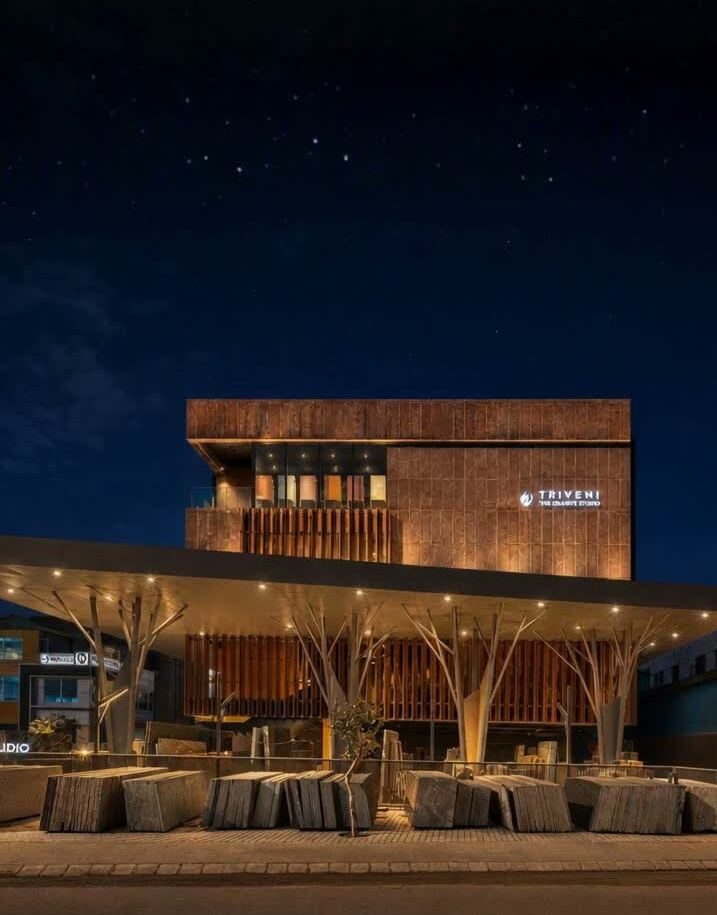
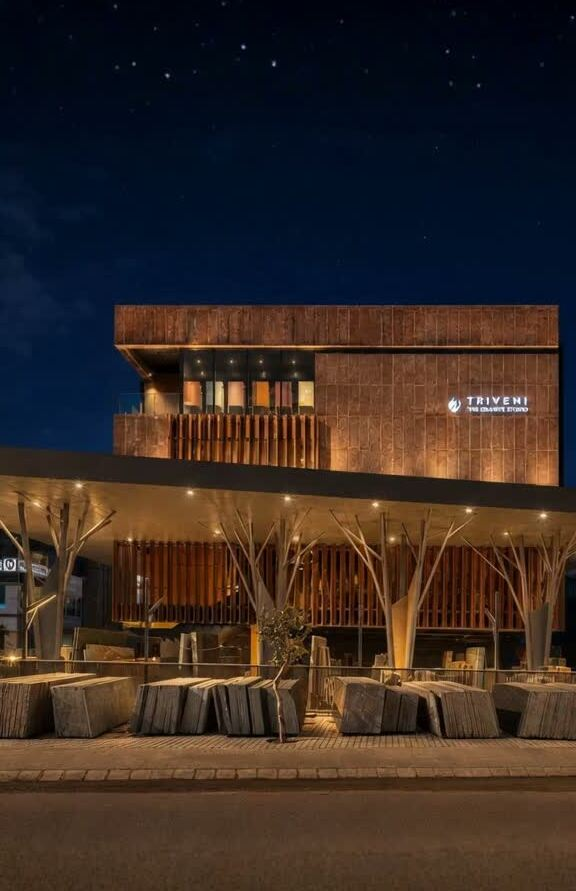
hero mobile

diff --git a/src/sections/heroPageSections/HeroSection.jsx b/src/sections/heroPageSections/HeroSection.jsx
@@ -17,7 +17,7 @@ export default function HeroSection() {
   }, []);
 
   return (
-    <section id="hero" className="relative w-full h-[100vh] overflow-hidden bg-[#0a0a0a]">
+    <section id="hero" className="relative w-full h-[90vh] overflow-hidden bg-[#0a0a0a]">
       <AnimatePresence mode="wait">
         {isMobile ? (
           // --- MOBILE CREATIVE VIEW ---
@@ -26,15 +26,16 @@ export default function HeroSection() {
             initial={{ opacity: 0 }}
             animate={{ opacity: 1 }}
             exit={{ opacity: 0 }}
-            className="relative w-full h-full flex flex-col justify-end p-6 md:p-12 text-white"
+            // Changed from justify-end to justify-start + pt-24 to float it elegantly in the dark sky
+            className="relative w-full h-full flex flex-col justify-start pt-24 px-6 text-white"
           >
             {/* Background Image Cinematic Scale & Ken Burns Effect */}
             <motion.div 
-              initial={{ scale: 1.2, filter: "brightness(0.3) blur(4px)" }}
+              initial={{ scale: 1.15, filter: "brightness(0.3) blur(3px)" }}
               animate={{ 
                 scale: 1, 
-                filter: "brightness(1.2) blur(0px)",
-                transition: { duration: 1.8, ease: [0.16, 1, 0.3, 1] }
+                filter: "brightness(1.1) blur(0px)",
+                transition: { duration: 2, ease: [0.16, 1, 0.3, 1] }
               }}
               className="absolute inset-0 z-0"
             >
@@ -46,60 +47,66 @@ export default function HeroSection() {
               />
             </motion.div>
 
-            {/* Cinematic Gradient Overlay */}
-            <div className="absolute inset-0 bg-gradient-to-t from-black via-black/40 to-transparent z-10" />
+            {/* Subtle top-down gradient protection for optimal contrast against the sky */}
+            <div className="absolute inset-0 bg-gradient-to-b from-black/60 via-transparent to-black/30 z-10 pointer-events-none" />
 
-            {/* Typography Content Overlay */}
-            <div className="relative z-20 mb-8 max-w-md space-y-4">
+            {/* Typography Content Overlay - Floating in Sky */}
+            <div className="relative z-20 max-w-xs space-y-4">
+              {/* Minimalist Subtitle / Welcome Line */}
               <motion.div
-                initial={{ opacity: 0, y: 30 }}
+                initial={{ opacity: 0, y: -10 }}
                 animate={isLoaded ? { opacity: 1, y: 0 } : {}}
                 transition={{ delay: 0.4, duration: 0.8, ease: "easeOut" }}
+                className="flex items-center gap-2"
               >
-                <span className="text-xs uppercase tracking-[0.3em] text-gray-400 font-medium">
-                  Welcome to Triveni
+                <span className="text-[10px] uppercase tracking-[0.4em] text-amber-500 font-semibold">
+                  Triveni Studio
+                </span>
+                <span className="w-4 h-[1px] bg-amber-500/40" />
+                <span className="text-[10px] uppercase tracking-[0.2em] text-neutral-400">
+                  Est. 1993
                 </span>
               </motion.div>
 
+              {/* High-End Architectural Heading */}
               <motion.h1 
-                initial={{ opacity: 0, y: 40 }}
+                initial={{ opacity: 0, y: 15 }}
                 animate={isLoaded ? { opacity: 1, y: 0 } : {}}
-                transition={{ delay: 0.6, duration: 0.8, ease: "easeOut" }}
-                className="text-4xl font-light tracking-tight leading-none"
+                transition={{ delay: 0.6, duration: 1, ease: [0.16, 1, 0.3, 1] }}
+                className="text-3xl font-extralight tracking-wide leading-[1.2]"
               >
                 Crafting <br />
-                <span className="font-semibold text-amber-500">Architectural</span> <br />
-                Masterpieces.
+                <span className="font-light text-neutral-100">Architectural</span> <br />
+                <span className="italic font-serif text-neutral-300">Masterpieces</span>
               </motion.h1>
 
+              {/* Minimal Line Divider */}
               <motion.div
                 initial={{ width: 0 }}
-                animate={isLoaded ? { width: "60px" } : {}}
+                animate={isLoaded ? { width: "40px" } : {}}
                 transition={{ delay: 0.9, duration: 0.6 }}
-                className="h-[2px] bg-amber-500"
+                className="h-[1px] bg-amber-500/80"
               />
 
+              {/* Short, elegant paragraph layout */}
               <motion.p
                 initial={{ opacity: 0 }}
-                animate={isLoaded ? { opacity: 0.8 } : {}}
+                animate={isLoaded ? { opacity: 0.65 } : {}}
                 transition={{ delay: 1.1, duration: 0.8 }}
-                className="text-sm text-gray-300 font-light leading-relaxed"
+                className="text-xs text-neutral-300 font-light tracking-wide max-w-[220px] leading-relaxed"
               >
-                Experience premium stones and architecture brought to life with dynamic precision.
+                Premium stone surfaces curated with pristine architectural precision.
               </motion.p>
             </div>
 
-            {/* Subtle Scroll/Swipe indicator */}
+            {/* Micro Scroll Indicator Line */}
             <motion.div 
               initial={{ opacity: 0, y: -10 }}
-              animate={{ opacity: [0, 1, 0], y: [0, 10, 0] }}
-              transition={{ repeat: Infinity, duration: 2, ease: "easeInOut", delay: 1.5 }}
-              className="absolute bottom-4 left-1/2 -translate-x-1/2 z-20 flex flex-col items-center gap-1"
+              animate={{ opacity: [0, 1, 0], y: [0, 8, 0] }}
+              transition={{ repeat: Infinity, duration: 2.2, ease: "easeInOut", delay: 1.6 }}
+              className="absolute bottom-6 left-1/2 -translate-x-1/2 z-20"
             >
-              <span className="text-[10px] tracking-[0.2em] uppercase text-gray-400">Scroll</span>
-              <div className="w-[1px] h-6 bg-gray-500/50 relative overflow-hidden">
-                <div className="absolute top-0 left-0 w-full h-1/2 bg-amber-500 animate-bounce" />
-              </div>
+              <div className="w-[1px] h-8 bg-gradient-to-b from-amber-500/70 to-transparent" />
             </motion.div>
           </motion.div>
         ) : (